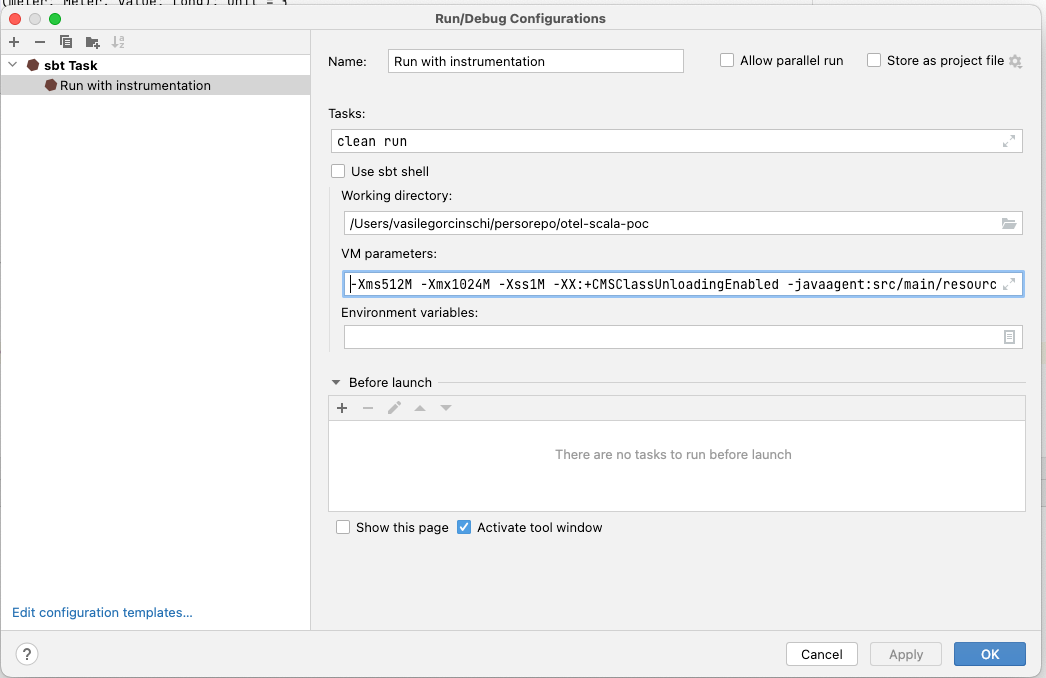
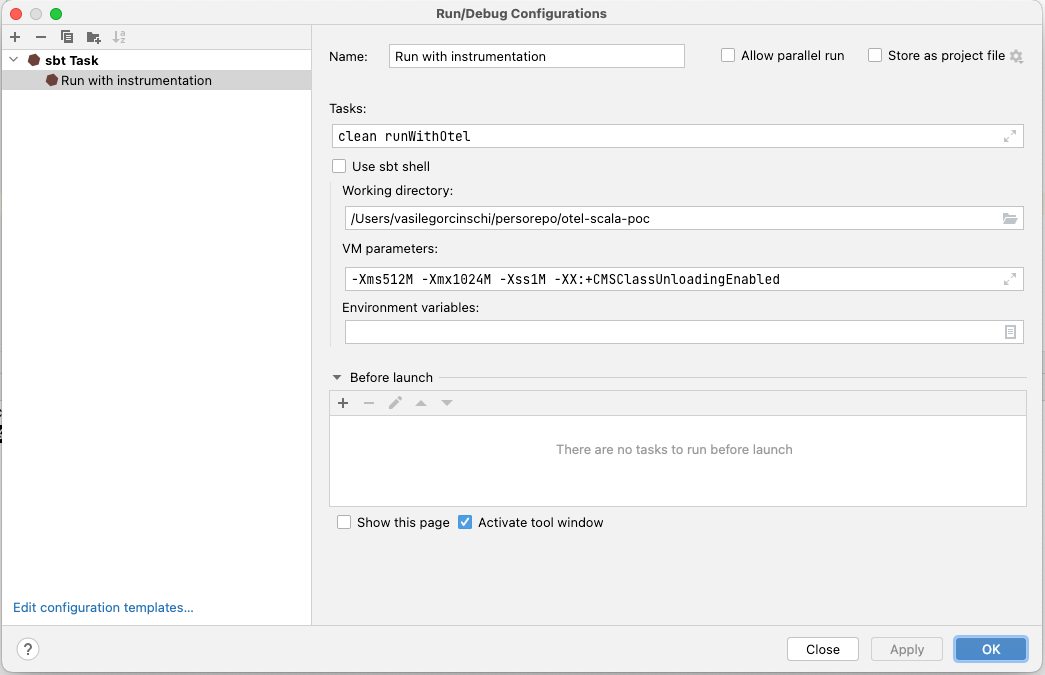
Update README

diff --git a/README.md b/README.md
@@ -19,16 +19,7 @@ can be sent to an otel collector without any of the following:
 - We use IntelliJ's sbt runner. Please reproduce the configuration locally
 or adjust your run environment accordingly:
 ![sbt configuration](src/main/resources/images/run-with-instrumentation-configuration.png)
-  - Here is what goes inside VM parameters configuration field:
-  
-  ```shell
-  -Xms512M
-  -Xmx1024M
-  -Xss1M
-  -XX:+CMSClassUnloadingEnabled
-  -javaagent:src/main/resources/opentelemetry-javaagent-all-v1.12.0.jar
-  -Dotel.javaagent.configuration-file=src/main/resources/otel.properties
-   ```
+
   
 ### Run
 
